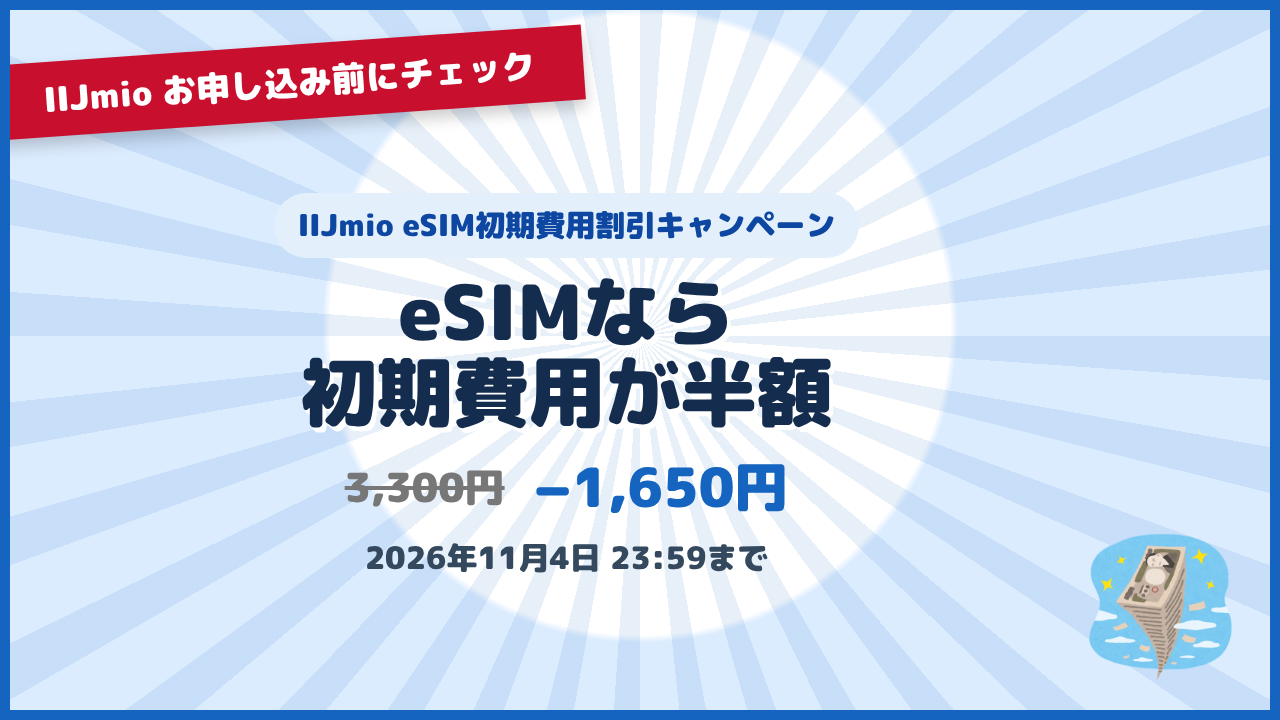
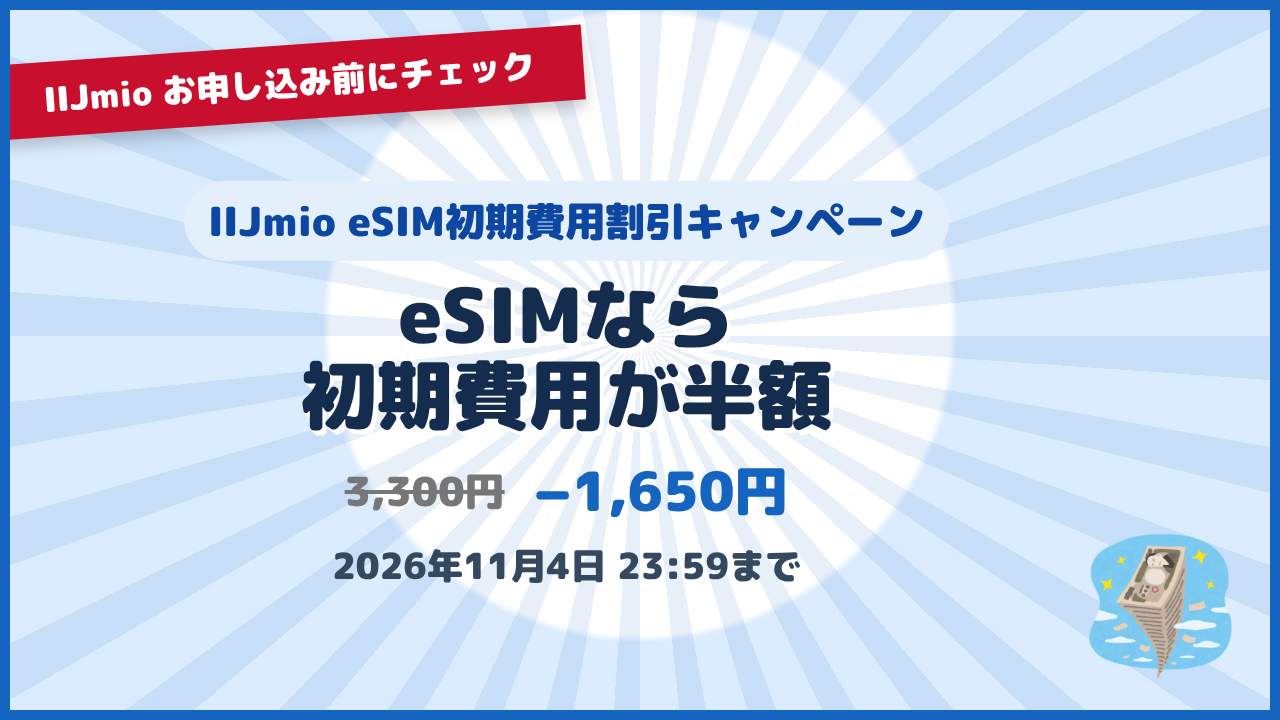
スライド手直し

Changed region(s): [[0.2188, 0.3667, 0.6562, 0.6111], [0.125, 0.2444, 0.75, 0.3667], [0.25, 0.6417, 0.625, 0.825]]

diff --git a/slides.html b/slides.html
@@ -78,7 +78,7 @@
         border-radius: 999px;
         background: #e3f0fb;
         color: #0d47a1;
-        font-size: 30px;
+        font-size: 40px;
         font-weight: 900;
         margin-bottom: 14px;
       }
@@ -114,7 +114,7 @@
         color: #777;
       }
       .std-footer {
-        font-size: 31px;
+        font-size: 36px;
         font-weight: 900;
         color: #34495e;
         margin-top: 6px;
